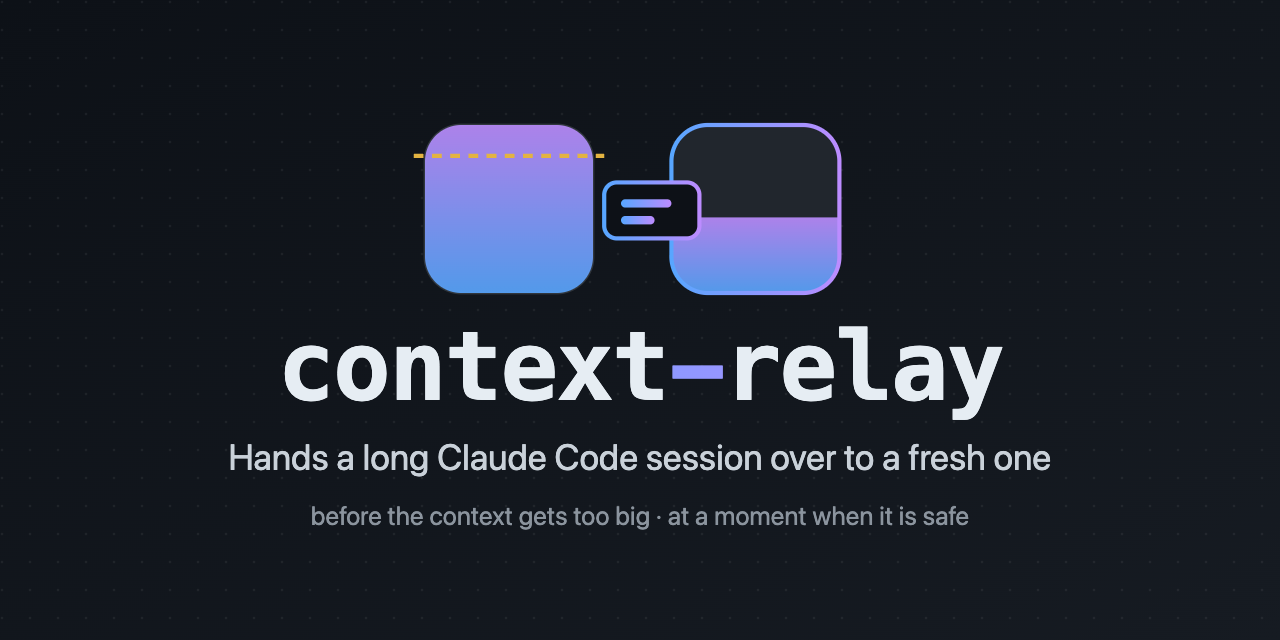
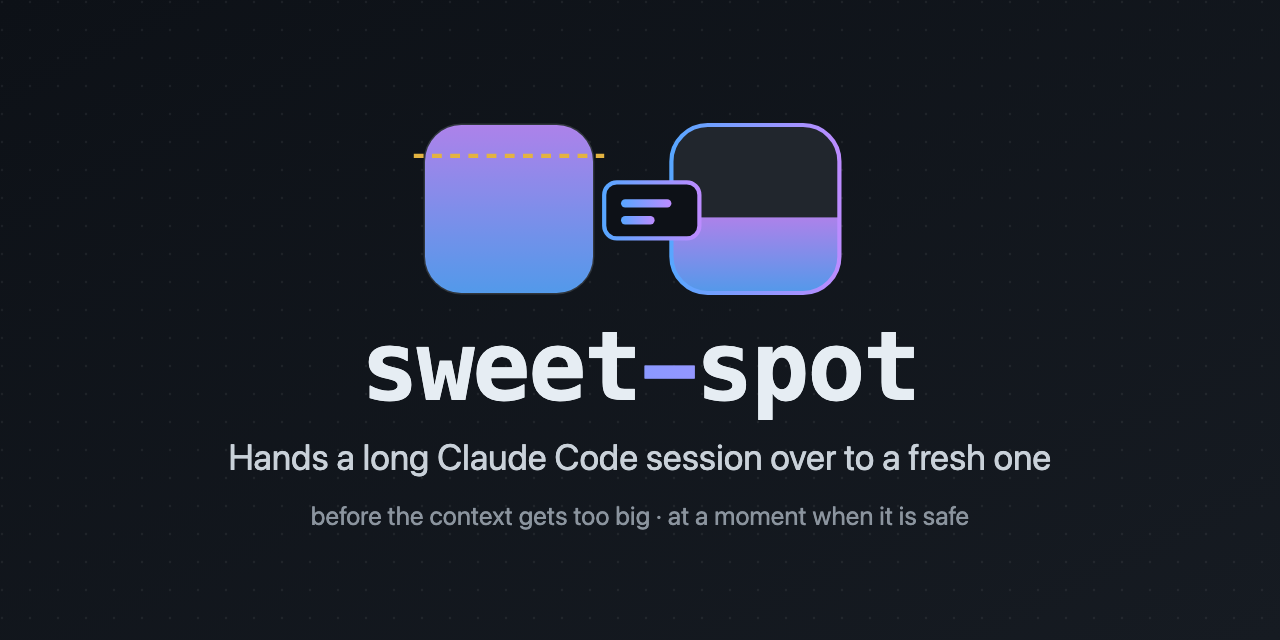
Rename the mod to sweet-spot
The plugin, marketplace, slash command, log level variable, prompt path,
links and pictures carry the new name. context-relay was already taken by
another mod with the same plugin name, so the two could not be installed
side by side.

Changed region(s): [[0.2188, 0.5, 0.7812, 0.6562]]

diff --git a/hooks/held.test.tsx b/hooks/held.test.tsx
@@ -27,11 +27,11 @@ import {
 } from './test-support'
 
 // What the person types while a handoff runs, and what is left to put right when the handoff does not get through: the typing is held
-// and goes in once, the first message that did not arrive stays pending, and `/context-relay redeliver` submits it again.
+// and goes in once, the first message that did not arrive stays pending, and `/sweet-spot redeliver` submits it again.
 
 const RUN = `run handoff ${ASK_FOR_PATH}`
-const HELD = 'context-relay: a handoff is in progress, your message is held and goes in when it is done'
-const NO_ATTACHMENTS = 'context-relay: a handoff is in progress and attachments cannot be held, send the message again when it is done'
+const HELD = 'sweet-spot: a handoff is in progress, your message is held and goes in when it is done'
+const NO_ATTACHMENTS = 'sweet-spot: a handoff is in progress and attachments cannot be held, send the message again when it is done'
 const HEAD = 'Typed while the handoff ran:'
 const FIRST = firstMessage(NOTES)
 const withHeld = (...items: string[]) => `${FIRST}\n\n${HEAD}\n${items.join('\n\n')}`
@@ -214,7 +214,7 @@ test('typing that cannot go back into the session is kept for redelivery, and th
   await world.clock.settle()
   expect(host.store.get(PENDING)).toBe('one\n\ntwo')
   expect(seen.logs.at(-1)).toBe(
-    `handoff failed, the command "handoff" does not exist; ${FORK_ALSO}; the typing held meanwhile could not be put back (no implementation for prompt.submit), \`/context-relay redeliver\` submits it`,
+    `handoff failed, the command "handoff" does not exist; ${FORK_ALSO}; the typing held meanwhile could not be put back (no implementation for prompt.submit), \`/sweet-spot redeliver\` submits it`,
   )
 })
 
@@ -250,7 +250,7 @@ test('late typing that cannot be submitted after a handoff is kept for redeliver
   expect(submits(host)).toEqual([`submit ${FIRST}`, 'submit late one'])
   expect(host.store.get('pending:new')).toBe('late one')
   expect(seen.logs.at(-1)).toBe(
-    'handoff failed, the typing held meanwhile could not be put back (no implementation for prompt.submit), `/context-relay redeliver` submits it',
+    'handoff failed, the typing held meanwhile could not be put back (no implementation for prompt.submit), `/sweet-spot redeliver` submits it',
   )
 })
 
@@ -262,6 +262,6 @@ test('typing that can be neither put back nor kept is named in the failure, so i
   await typeInto($, 'precious')
   await world.clock.settle()
   expect(seen.logs.at(-1)).toBe(
-    `handoff failed, the command "handoff" does not exist; ${FORK_ALSO}; the typing held meanwhile could not be put back (no implementation for prompt.submit) or kept (context-relay: $.store.set: store is down), it is lost: precious`,
+    `handoff failed, the command "handoff" does not exist; ${FORK_ALSO}; the typing held meanwhile could not be put back (no implementation for prompt.submit) or kept (sweet-spot: $.store.set: store is down), it is lost: precious`,
   )
 })

diff --git a/hooks/redeliver.test.tsx b/hooks/redeliver.test.tsx
@@ -27,11 +27,11 @@ import {
 } from './test-support'
 
 // The reason a handoff failed is kept in the store, where `/clear` does not reach it, and the message that did not reach the fresh session
-// stays pending until `/context-relay redeliver` submits it.
+// stays pending until `/sweet-spot redeliver` submits it.
 
 const FIRST = firstMessage(NOTES)
 const NOTHING = 'nothing to redeliver'
-const USAGE = 'use `/context-relay redeliver` to submit again the handoff that did not reach the fresh session'
+const USAGE = 'use `/sweet-spot redeliver` to submit again the handoff that did not reach the fresh session'
 const REDELIVERING = 'redelivering the handoff'
 
 // A handoff whose first message does not reach the fresh session: it is dropped by another hook.
@@ -49,7 +49,7 @@ test('the command is registered when a session starts, and not again at its firs
   sessionWith(on)
   await startSession($)
   await startTurn($, 't1')
-  expect(seen.registered).toEqual(['context-relay'])
+  expect(seen.registered).toEqual(['sweet-spot'])
 })
 
 test('a mod loaded into a running session registers the command at its first turn, once', async ($, on) => {
@@ -58,7 +58,7 @@ test('a mod loaded into a running session registers the command at its first tur
   await startTurn($, 't1')
   await endTurn($, 'answer', { turnId: 't1' })
   await startTurn($, 't2')
-  expect(seen.registered).toEqual(['context-relay'])
+  expect(seen.registered).toEqual(['sweet-spot'])
 })
 
 test('a command the host refuses is said, and the mod goes on without it', async ($, on) => {
@@ -67,7 +67,7 @@ test('a command the host refuses is said, and the mod goes on without it', async
   sessionWith(on)
   await startSession($)
   await startTurn($, 't1')
-  expect(seen.logs).toEqual(['could not register its command (context-relay: $.command.register: taken)'])
+  expect(seen.logs).toEqual(['could not register its command (sweet-spot: $.command.register: taken)'])
 })
 
 test('a pending message from an earlier handoff is not mistaken for the typing of a later one, and stays to be redelivered', NO_GAP, async ($, on) => {
@@ -204,7 +204,7 @@ test('redeliver when the store cannot be read says why and leaves the message pe
   host.failStore.push(`get:${PENDING}`)
   await runRelay($, 'redeliver')
   await world.clock.settle()
-  expect(seen.logs.at(-1)).toBe(failure('context-relay: $.store.get: store is down'))
+  expect(seen.logs.at(-1)).toBe(failure('sweet-spot: $.store.get: store is down'))
   host.failStore = []
   await runRelay($, 'redeliver')
   await world.clock.settle()
@@ -275,7 +275,7 @@ const reasons: [string, string, (host: Host) => void, (world: SessionWorld, $: T
     'error',
     host => (host.envError = 'denied'),
     (w, $) => commandTurnEnds($, w, 'no line'),
-    'context-relay: $.env.get: denied',
+    'sweet-spot: $.env.get: denied',
     'old',
   ],
 ]

diff --git a/hooks/test-support.ts b/hooks/test-support.ts
@@ -193,8 +193,8 @@ export const hostWith = (on: TestOn, host: Partial<Host> = {}) => {
   // Assumed: `env.get` answers a variable by its name; HOME, TMPDIR and the log level are asked for, and anything else gets the temp
   // directory. That a read can fail at all is an assumption too: nothing measured names a cause.
   on('env.get', async (_, e) => {
-    if (e.name === 'CONTEXT_RELAY_LOG_LEVEL') await once(h, 'read log level')
-    if (e.name === 'CONTEXT_RELAY_LOG_LEVEL') return h.logLevelFails ? { deny: 'environment is not readable' } : { value: h.logLevel }
+    if (e.name === 'SWEET_SPOT_LOG_LEVEL') await once(h, 'read log level')
+    if (e.name === 'SWEET_SPOT_LOG_LEVEL') return h.logLevelFails ? { deny: 'environment is not readable' } : { value: h.logLevel }
     if (h.envError !== undefined) return { deny: h.envError }
     return { value: e.name === 'HOME' ? h.home : h.tmpdir }
   })
@@ -253,7 +253,7 @@ export const typeInto = ($: TestEngine, text: string, extra: object = {}) =>
   $.prompt.submit({ text, wait: false, origin: { kind: 'composer' }, ...extra } as never)
 
 // A person running the mod's command.
-export const runRelay = ($: TestEngine, args: string) => $.command.run({ command: 'context-relay', args } as never)
+export const runRelay = ($: TestEngine, args: string) => $.command.run({ command: 'sweet-spot', args } as never)
 
 // Wording and numbers that several test files pin. They are spelled out here on purpose: a test that imported them from the mod would never
 // notice the mod's wording change.

diff --git a/hooks/fallback.test.tsx b/hooks/fallback.test.tsx
@@ -98,7 +98,7 @@ const fallingBack: [string, (host: Host) => void, (w: SessionWorld, $: TestEngin
     'the file named cannot be read',
     () => {},
     (w, $) => commandTurnEnds($, w, 'HANDOFF_PATH: /var/T/missing.md'),
-    'the handoff file could not be read (context-relay: $.fs.read: no such file: /var/T/missing.md)',
+    'the handoff file could not be read (sweet-spot: $.fs.read: no such file: /var/T/missing.md)',
   ],
   [
     'the file named is older than the run',
@@ -192,7 +192,7 @@ const notFallingBack: [string, (host: Host) => void, string, string][] = [
     `the fresh session did not get the handoff (a hook dropped it: held); it is in ${FILE}`,
     `HANDOFF_PATH: ${FILE}`,
   ],
-  ['the environment cannot be read', host => (host.envError = 'denied'), 'context-relay: $.env.get: denied', 'no line'],
+  ['the environment cannot be read', host => (host.envError = 'denied'), 'sweet-spot: $.env.get: denied', 'no line'],
 ]
 
 for (const [name, arrange, reason, answer] of notFallingBack) {
@@ -317,7 +317,7 @@ test('typing while the fork works is held and goes into the first message, once'
   const host = hostWith(on, { commands: [], fork: ANSWERED })
   host.during.fork = async () => {
     expect(await typeInto($, 'also fix the lexer')).toEqual({
-      drop: 'context-relay: a handoff is in progress, your message is held and goes in when it is done',
+      drop: 'sweet-spot: a handoff is in progress, your message is held and goes in when it is done',
     })
   }
   await reachThreshold($, world)

diff --git a/hooks/report.ts b/hooks/report.ts
@@ -1,4 +1,4 @@
-// The host puts "context-relay:" in front of a log line and of what the command returns itself, so none of these lines starts with the name. The hold's own lines carry it; `hold.ts` says why.
+// The host puts "sweet-spot:" in front of a log line and of what the command returns itself, so none of these lines starts with the name. The hold's own lines carry it; `hold.ts` says why.
 // What the mod says about a decision. Every line names the context size: a person who sees "postponed" wants to know how close the limit is.
 
 import type { BusyReason, DeferReason, Decision } from './decide'
@@ -31,7 +31,7 @@ export const REDELIVERING = 'redelivering the handoff'
 
 export const NOTHING_TO_REDELIVER = 'nothing to redeliver'
 
-const USAGE = 'use `/context-relay redeliver` to submit again the handoff that did not reach the fresh session'
+const USAGE = 'use `/sweet-spot redeliver` to submit again the handoff that did not reach the fresh session'
 
 // An argument the command does not know is named, so that a guess like `wait 10000` does not read as a hint about something else.
 export const usageFor = (args: string): string => (args.trim() === '' ? USAGE : `unknown argument "${args}", ${USAGE}`)

diff --git a/hooks/register.tsx b/hooks/register.tsx
@@ -43,7 +43,7 @@ const commandShown = (name: string) => (name === '' ? 'none' : `"${name}"`)
 // Each change to a level that shows `info` is marked with the settings in force, so that a log turned on halfway through a session says
 // them too, and shows from where on its finer lines start. Settings the mod rejects have their own line, said where the person looks.
 const readLevel = async ($: Engine, settings: ConfigResult, state: State) => {
-  const before = await refresh(() => $.env.get('CONTEXT_RELAY_LOG_LEVEL'), toLog($), state)
+  const before = await refresh(() => $.env.get('SWEET_SPOT_LOG_LEVEL'), toLog($), state)
   if (!settings.ok || state.logLevel === before || !shows(state.logLevel, 'info')) return
   const c = settings.config
   logTo($, state)(
@@ -90,7 +90,7 @@ const introduce = async ($: Engine, settings: ConfigResult, state: State) => {
 }
 
 // The one command of the mod; what it does is the word after it.
-const COMMAND = 'context-relay'
+const COMMAND = 'sweet-spot'
 
 const registerCommand = async ($: Engine, state: State) => {
   try {

diff --git a/hooks/handover.test.tsx b/hooks/handover.test.tsx
@@ -222,7 +222,7 @@ const failing: [string, (host: ReturnType<typeof hostWith>) => void, (w: World, 
     'the file named cannot be read',
     () => {},
     async (w, $) => commandTurnEnds($, w, 'HANDOFF_PATH: /var/T/missing.md'),
-    'the handoff file could not be read (context-relay: $.fs.read: no such file: /var/T/missing.md)',
+    'the handoff file could not be read (sweet-spot: $.fs.read: no such file: /var/T/missing.md)',
     [RUN],
   ],
   ['the file is empty', host => (host.files[FILE] = ' \n'), async (w, $) => commandTurnEnds($, w, `HANDOFF_PATH: ${FILE}`), 'the handoff file is empty', [RUN]],
@@ -240,7 +240,7 @@ const failing: [string, (host: ReturnType<typeof hostWith>) => void, (w: World, 
     'the environment cannot be read',
     host => (host.envError = 'denied'),
     async (w, $) => commandTurnEnds($, w, 'no line'),
-    'context-relay: $.env.get: denied',
+    'sweet-spot: $.env.get: denied',
     [RUN],
   ],
 ]

diff --git a/hooks/relay.ts b/hooks/relay.ts
@@ -188,7 +188,7 @@ const putIn = async (io: Io, state: State, typing: string, failure: Failure | un
   try {
     await park(io, state, typing)
     io.log('warn', `held typing kept for redelivery, ${typing.length} characters`)
-    return back === undefined ? failure : joined(failure, `the typing held meanwhile could not be ${back}, \`/context-relay redeliver\` submits it`)
+    return back === undefined ? failure : joined(failure, `the typing held meanwhile could not be ${back}, \`/sweet-spot redeliver\` submits it`)
   } catch (err) {
     io.log('warn', `held typing lost, ${typing.length} characters`)
     return joined(failure, `the typing held meanwhile could not be ${back === undefined ? '' : `${back} or `}kept (${why(err)}), it is lost: ${typing}`)

diff --git a/hooks/units.test.ts b/hooks/units.test.ts
@@ -339,8 +339,8 @@ test('forkKind: a reason said in words is a kind of its own, any other one is ot
 })
 
 test('promptPath: the prompt file lives under ~/.claude, whether the home directory ends in a slash or not', async () => {
-  expect(promptPath('/home/me')).toBe('/home/me/.claude/context-relay/handoff-prompt.md')
-  expect(promptPath('/home/me/')).toBe('/home/me/.claude/context-relay/handoff-prompt.md')
+  expect(promptPath('/home/me')).toBe('/home/me/.claude/sweet-spot/handoff-prompt.md')
+  expect(promptPath('/home/me/')).toBe('/home/me/.claude/sweet-spot/handoff-prompt.md')
 })
 
 test('promptFrom: a prompt file with text is the prompt, trimmed; nothing readable, a blank or a non-text leaves the default', async () => {

diff --git a/hooks/handoff.ts b/hooks/handoff.ts
@@ -72,7 +72,7 @@ export const DEFAULT_PROMPT = [
 export const withoutTrailingSeparator = (dir: string): string => dir.replace(/[\\/]$/, '')
 
 // Where the user's own prompt lives. The mod reads it and never writes it.
-export const promptPath = (home: string): string => `${withoutTrailingSeparator(home)}/.claude/context-relay/handoff-prompt.md`
+export const promptPath = (home: string): string => `${withoutTrailingSeparator(home)}/.claude/sweet-spot/handoff-prompt.md`
 
 // A file that is missing, unreadable or blank leaves the prompt the mod brings.
 export const promptFrom = (file: unknown): string => (typeof file === 'string' && file.trim() !== '' ? file.trim() : DEFAULT_PROMPT)

diff --git a/hooks/hold.ts b/hooks/hold.ts
@@ -4,8 +4,8 @@
 
 import type { State } from './state'
 
-export const HELD = 'context-relay: a handoff is in progress, your message is held and goes in when it is done'
-export const NO_ATTACHMENTS = 'context-relay: a handoff is in progress and attachments cannot be held, send the message again when it is done'
+export const HELD = 'sweet-spot: a handoff is in progress, your message is held and goes in when it is done'
+export const NO_ATTACHMENTS = 'sweet-spot: a handoff is in progress and attachments cannot be held, send the message again when it is done'
 
 type Typing = { text: string; attachments?: readonly unknown[]; origin: { kind: string } }
 

diff --git a/hooks/interleave.test.tsx b/hooks/interleave.test.tsx
@@ -8,7 +8,7 @@ import { endTurn, FILE, hostWith, LIVE, NOTES, reachThreshold, sessionWith, star
 
 const WOULD = /would hand over/
 const RUN = `run handoff ${ASK_FOR_PATH}`
-const HELD = 'context-relay: a handoff is in progress, your message is held and goes in when it is done'
+const HELD = 'sweet-spot: a handoff is in progress, your message is held and goes in when it is done'
 
 for (const level of [undefined, 'trace']) {
   const named = level === undefined ? 'with no log' : `with the log at ${level}`
